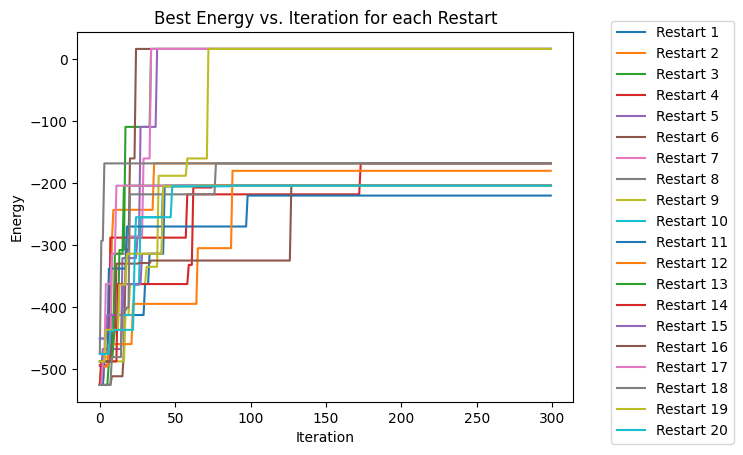
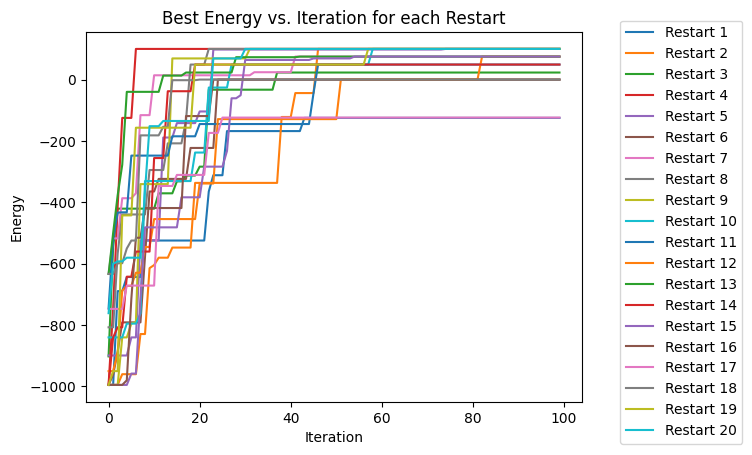
Change some settings, make some more graphs.

diff --git a/main.py b/main.py
@@ -44,7 +44,7 @@ time_between = int(input("Lastly, please enter the number of minutes that would 
 print("Thanks! Give us a minute while the program creates a personal class schedule")
 
 random_schedule = schedule_generator(courses)
-best_solution, best_energy = hillclimb_random_restarts(random_schedule, time_pref, day_off, time_between, 300, 20, courses)
+best_solution, best_energy = hillclimb_random_restarts(random_schedule, time_pref, day_off, time_between, 100, 20, courses)
 
 original_schedule = Schedule(random_schedule)
 print(f"Starting schedule with energy: {energy_function(random_schedule, time_pref, day_off, time_between)} is:\n")

diff --git a/hillclimbing.py b/hillclimbing.py
@@ -18,7 +18,7 @@ def energy_function(schedule, tod_pref, day_off_pref, time_betweem_pref):
             day_off = False
 
     if day_off:
-        energy += 40
+        energy += 4000
     avg_time_between_classes = avg_time_between(schedule)
     if avg_time_between_classes is not None:
         energy -= abs(time_betweem_pref - avg_time_between_classes)
